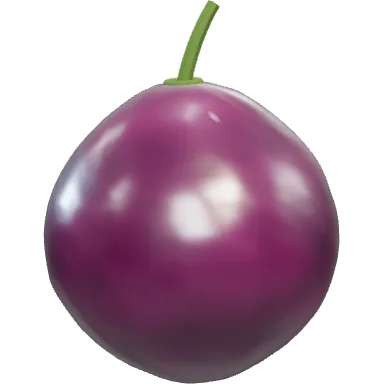
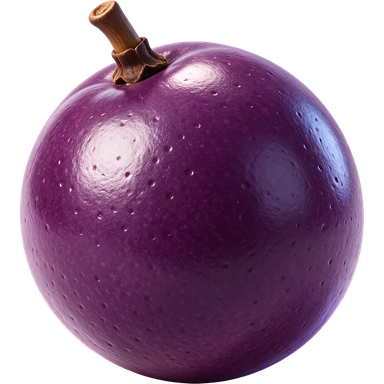
Cascade Péi v2 : fruits entiers et effets générés sur ElevenLabs
Claude-Session: https://claude.ai/code/session_01La9GVRnctmdqLVjf6ta8cq

diff --git a/public/jeux-3d/cascade-pei-v2/index.html b/public/jeux-3d/cascade-pei-v2/index.html
@@ -131,8 +131,8 @@ const FRUITS=[
  {n:"ananas",nom:"Ananas Victoria",c:"#ffb21e"}];
 const hsv=(h,s=.85,v=1)=>{h=((h%360)+360)%360/60;const i=Math.floor(h),f=h-i,p=v*(1-s),q=v*(1-s*f),t=v*(1-s*(1-f)),a=[[v,t,p],[q,v,p],[p,v,t],[p,q,v],[t,p,v],[v,p,q]][i%6];return (Math.round(a[0]*255)<<16)|(Math.round(a[1]*255)<<8)|Math.round(a[2]*255);};
 const hsvS=(h)=>"#"+hsv(h).toString(16).padStart(6,"0");
-const FXN=["etoile","jus","flare","petale","goutte","anneau","fumee","feuille","paillettes"],FXT={},FXP={n:[],a:[]},FXU={n:0,a:0};
-for(const n of FXN){const im=new Image();im.src="../commun/fx/"+n+".webp"+V;FXT[n]={im};}
+const FXN=["e-etincelles","e-onde","e-jus","etoile","jus","flare","petale","goutte","anneau","fumee","feuille","paillettes"],FXT={},FXP={n:[],a:[]},FXU={n:0,a:0};
+for(const n of FXN){const im=new Image();im.src=(n[0]==="e"&&n[1]==="-"?"./":"../commun/fx/")+n+".webp"+V;FXT[n]={im};}
 function fxTex(n){const o=FXT[n];if(!o||!o.im.complete||!o.im.naturalWidth)return null;return o.t||(o.t=PIXI.Texture.from(o.im));}
 function fxSpr(n,x,y,w,rot,al,tint,add){const t=fxTex(n);if(!t)return;const L=add?"a":"n",P=FXP[L],i=FXU[L]++;let s=P[i];
   if(!s){s=new PIXI.Sprite();s.anchor.set(.5);(add?fxA:fxN).addChild(s);P[i]=s;}
@@ -364,7 +364,7 @@ function nettoie(){
   const mid=[...kill][0];const mc=Math.floor(mid/NR),mr=mid%NR;
   pop((G.cascade>1?"Cascade ×"+G.cascade+"  ":"")+"+"+pts,OX+(mc+.5)*CELL,OY+(mr+.5)*CELL,G.cascade>1?"#ffd24a":"#fff",G.cascade>1?34:28);
   sfx("pop",1,1+Math.min(.6,(G.cascade-1)*.12));vib(10);
-  if(G.cascade>=3){for(let i=0;i<14;i++){const a=rnd(0,6.28),v=rnd(150,420);fxSp({k:"etoile",add:1,x:W/2,y:OY+CELL*3,w:rnd(.3,.7)*CELL,vx:Math.cos(a)*v,vy:Math.sin(a)*v-200,g:380,life:rnd(.7,1.2),tint:hsv(rnd(0,360))});}secoue(4);}
+  if(G.cascade>=3){fxSp({k:"e-etincelles",add:1,x:W/2,y:OY+CELL*3.5,w:CELL*3,grow:CELL*8,life:1,vr:.4,al:1});for(let i=0;i<14;i++){const a=rnd(0,6.28),v=rnd(150,420);fxSp({k:"etoile",add:1,x:W/2,y:OY+CELL*3,w:rnd(.3,.7)*CELL,vx:Math.cos(a)*v,vy:Math.sin(a)*v-200,g:380,life:rnd(.7,1.2),tint:hsv(rnd(0,360))});}secoue(4);}
   G.state="clearing";G.timer=.24;
 }
 function goal(t){for(const x of G.goals)if(x.t===t&&x.got<x.n)x.got++;}
@@ -498,13 +498,14 @@ function animCells(dt){
   }
 }
 function burst(c,r,col,n){const x=OX+(c+.5)*CELL,y=OY+(r+.5)*CELL;
-  if(!G.sp||G.sp.length<260){fxSp({k:"jus",x,y,w:CELL*.7,grow:CELL*1.5,life:.55,vr:0,rot:rnd(0,6.28),tint:hx(col.length===7?col:"#ffffff")});for(let i=0;i<3;i++){const a=rnd(0,6.28),v=rnd(120,300);fxSp({k:i%2?"goutte":"paillettes",add:i%2?0:1,x,y,w:rnd(.2,.45)*CELL,vx:Math.cos(a)*v,vy:Math.sin(a)*v-120,g:700,life:rnd(.5,.9),tint:i%2?hx(col.length===7?col:"#ffffff"):hsv(rnd(0,360))});}}
+  if(!G.sp||G.sp.length<260){fxSp({k:"e-jus",add:1,x,y,w:CELL*.9,grow:CELL*1.6,life:.5,vr:0,rot:rnd(0,6.28),al:.85});for(let i=0;i<3;i++){const a=rnd(0,6.28),v=rnd(120,300);fxSp({k:i%2?"goutte":"paillettes",add:i%2?0:1,x,y,w:rnd(.2,.45)*CELL,vx:Math.cos(a)*v,vy:Math.sin(a)*v-120,g:700,life:rnd(.5,.9),tint:i%2?hx(col.length===7?col:"#ffffff"):hsv(rnd(0,360))});}}
   for(let i=0;i<n;i++){const a=rnd(0,6.28),v=rnd(60,260);G.parts.push({x,y,vx:Math.cos(a)*v,vy:Math.sin(a)*v-80,g:600,t:0,life:rnd(.3,.65),r:rnd(3,7),col});}}
 function fxRing(c,r,col,R){const x=OX+(c+.5)*CELL,y=OY+(r+.5)*CELL;G.fx.push({k:"ring",x,y,col,R:R*CELL,t:0,life:.55});if(R>=2.4)grandMoment(x,y,col);}
 function grandMoment(x,y,col){
   for(let i=0;i<6;i++)G.fx.push({k:"ring",x,y,col:hsvS(i*60),R:(2.6+i*.5)*CELL,t:-i*.07,life:.7}); // ralenti, zoom, onde de choc et gerbe d'étincelles dorées
   G.slow=Math.max(G.slow||0,.32);G.zoom=1;G.onde={x,y,t:0};sfx("impact",.9);sfx("eclat",.6,1.05);
   for(let i=0;i<46;i++){const a=rnd(0,6.28),v=rnd(120,520);G.parts.push({x,y,vx:Math.cos(a)*v,vy:Math.sin(a)*v-160,g:520,t:0,life:rnd(.5,1.1),r:rnd(2,6),col:i%3?"#ffe25a":col});}
+  fxSp({k:"e-onde",add:1,x,y,w:CELL*1.5,grow:CELL*7,life:.8,vr:0,rot:0,al:.8});fxSp({k:"e-etincelles",add:1,x,y,w:CELL*2,grow:CELL*6,life:.9,vr:.6,al:.6});
   fxSp({k:"flare",add:1,x,y,w:CELL*.9,grow:CELL*3.2,life:.5,al:.4});
   fxSp({k:"anneau",add:1,x,y,w:CELL*.8,grow:CELL*6,life:.7,vr:0,rot:0});
   fxSp({k:"jus",x,y,w:CELL*1.1,grow:CELL*2.2,life:.7,vr:0,rot:0,tint:hx(col.length===7?col:"#ffa020")});
@@ -610,7 +611,7 @@ function dessineCell(k,c,r){
     for(let i=0;i<4;i++){const a=G.t*2+i*1.57;gOver.circle(x+Math.cos(a)*R0*.6,y+Math.sin(a)*R0*.6,3).fill({color:0xffffff,alpha:al});}
     return;
   }
-  if(k.t>=0){gUnder.circle(x,y,CELL*.42*k.sc).fill({color:hx(FRUITS[k.t].c),alpha:.2*al});
+  if(k.t>=0){
     {const gl=.5+.5*Math.sin(G.t*3+c+r),cc=hx(FRUITS[k.t].c);gAdd.circle(x,y,CELL*.5*k.sc).fill({color:cc,alpha:(.07+.04*gl)*al});gAdd.circle(x,y,CELL*.38*k.sc).fill({color:cc,alpha:(.1+.05*gl)*al});}
     const ph=(G.t*.9+((c*13+r*7)%10)*.7)%7;if(ph<.55&&al>.9)fxSpr("etoile",x-CELL*.22,y-CELL*.26,CELL*.34*Math.sin(ph/.55*Math.PI),G.t*2,.95,0xffffff,true);}
   spr("cell",x,y,h,al,k.t);

diff --git a/public/jeux-3d/cascade-pei-v2/credits.md b/public/jeux-3d/cascade-pei-v2/credits.md
@@ -6,7 +6,8 @@
 | PixiJS 8, pixi-filters (commun/) | Projets open source | MIT |
 | Polices Bangers (fichier local), Baloo 2 | Google Fonts | SIL OFL 1.1 |
 | fond-portrait.webp, fond-paysage.webp, pack commun/fx | Images générées pour Kwélafé (ElevenLabs) | Usage commercial (abonnement ElevenLabs, confirmé le 26/11/2026) |
-| fruit-*.webp (letchi, mangue, grenadine, citron, banane, ananas, fruits entiers) | Modèles 3D Kwélafé (Blender), repris de public/jeux/fruits | Création Kwélafé |
+| fruit-*.webp (letchi, mangue, grenadine, citron, banane, ananas : fruits entiers) | Images générées ElevenLabs (seedream-5.5, fond transparent), flow 5OxD4OdthL4FQTuNOVmw, détourées et recadrées | Usage commercial (abonnement ElevenLabs) |
+| e-etincelles.webp, e-onde.webp, e-jus.webp (effets additifs) | Images générées ElevenLabs (seedream-5.5), même flow | Usage commercial (abonnement ElevenLabs) |
 | musique-calme.mp3, musique-intense.mp3 | ElevenLabs Music v2, flow aen6qeoBJjH5rNkg9Pr5, vérifiées sans voix (transcription vide) | Usage commercial |
 | Effets (sons/*.mp3 : pop, échange, chute, zékler, bombe, goni, kayamb, etc.) | ElevenLabs Sound Effects v2 | Usage commercial |
 | Faits du carnet (16) | Repères sur les fruits de La Réunion, reformulés | Textes Kwélafé |
